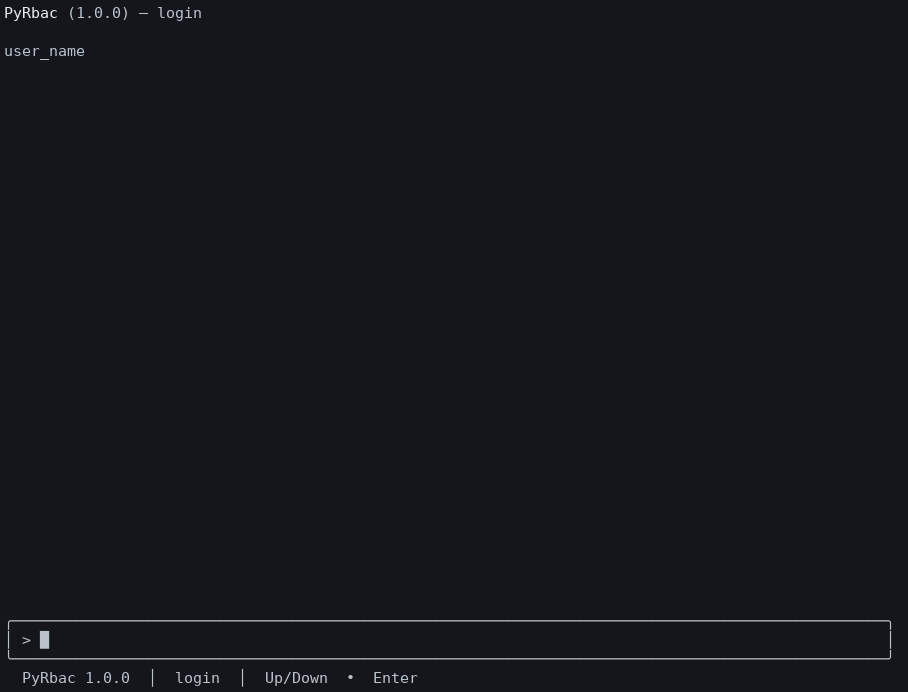
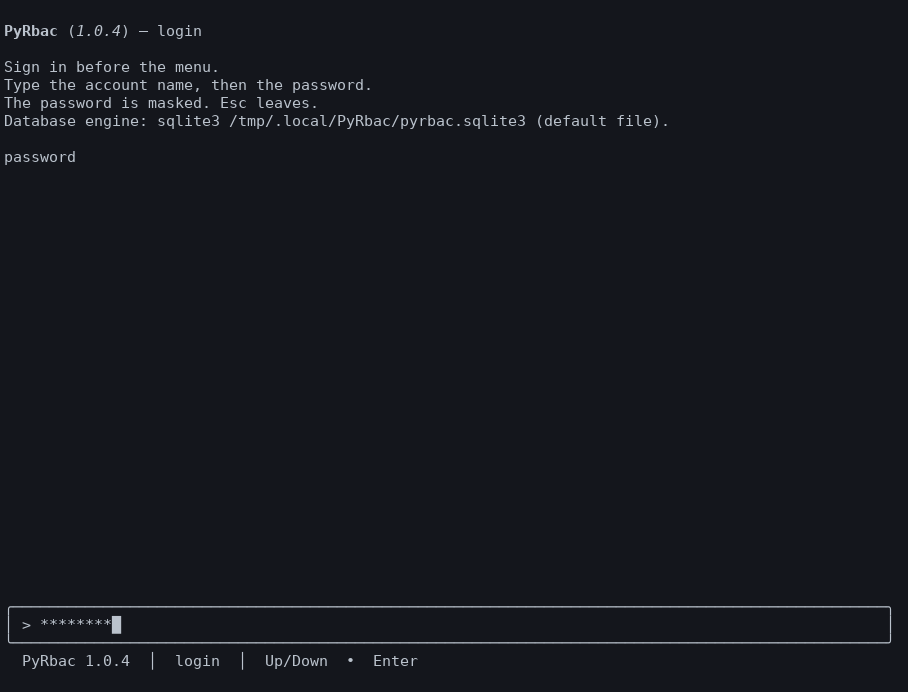
Update the README screenshots for the current menu.
The pictures are the current text menu at 1.0.4. The front board has no session row. The sign-in question keeps its instructions, including the sqlite3 file, above each field. Row 9 Exit is included, and the old session picture is removed.

diff --git a/tests/test_local_login.py b/tests/test_local_login.py
@@ -193,6 +193,43 @@ class TestSavedSignIn(unittest.TestCase):
         finally:
             desk.web().stop()
 
+    def test_login_question_keeps_the_preface(self):
+        class Box:
+            error = ""
+            mask = False
+            buffer = ""
+            cursor = 0
+
+            def _backspace(self):
+                return None
+
+            def _slide(self, _key):
+                return None
+
+            def _insert(self, _ch):
+                return None
+
+        seen = []
+
+        def read_key(_screen, _model, lines, title="menu"):
+            seen.append((title, list(lines)))
+            return "admin" if len(seen) == 1 else "secret"
+
+        tui = Tui()
+        tui.read_key = read_key
+        preface = [
+            "Sign in before the menu.",
+            "Database engine: sqlite3 /tmp/PyRbac/pyrbac.sqlite3 (default file).",
+        ]
+        picked = tui._ask_fields(None, Box(), "login", Tui.ASKS["login"], preface=preface)
+        self.assertEqual(picked, {"user_name": "admin", "password": "secret"})
+        self.assertEqual(seen[0][0], "login")
+        self.assertIn("Sign in before the menu.", seen[0][1])
+        self.assertIn("pyrbac.sqlite3", seen[0][1][1])
+        self.assertEqual(seen[0][1][-1], "user_name")
+        self.assertEqual(seen[1][1][-1], "password")
+        self.assertIn("(default file).", seen[1][1][1])
+
 
 class TestExitQuestion(unittest.TestCase):
     """Row 9 asks. End of input does not."""

diff --git a/src/PyRbac/tui.py b/src/PyRbac/tui.py
@@ -473,7 +473,7 @@ class Tui:
                 return
             signed_in = self.sign_in_or_restore(
                 lambda lines: self._ask_fields(
-                    screen, session.model, "login", self.ASKS["login"],
+                    screen, session.model, "login", self.ASKS["login"], preface=lines,
                 ),
                 state=state,
                 database_name=database_name,
@@ -689,13 +689,21 @@ class Tui:
         "online-logout": (("token", "session token", False),),
     }
 
-    def _ask_fields(self, screen, model, title, fields):
-        """One field at a time. Esc returns None. A password field is masked."""
+    def _ask_fields(self, screen, model, title, fields, preface=None):
+        """One field at a time. Esc returns None. A password field is masked.
+
+        preface stays above the field label. The sign-in question uses it for
+        the account instructions and the database file.
+        """
         values = {}
         for name, label, secret in fields:
             model.mask = bool(secret)
+            body = list(preface or [])
+            if body:
+                body.append("")
+            body.append(label)
             try:
-                text = self.read_key(screen, model, [label], title=title)
+                text = self.read_key(screen, model, body, title=title)
             finally:
                 model.mask = False
             if text is None:

diff --git a/tests/test_docs.py b/tests/test_docs.py
@@ -31,6 +31,7 @@ HEADINGS = (
 SHOTS = (
     "main-menu-en.png",
     "login-prompt.png",
+    "exit-prompt.png",
     "access-menu.png",
     "setup-menu.png",
     "audit-menu.png",

diff --git a/README.md b/README.md
@@ -116,11 +116,15 @@ These are captures of the running text menu.
 
 ![Front board](https://raw.githubusercontent.com/cloudgen/PyRbac/main/screenshots/main-menu-en.png)
 
-*Front board after sign-in. Row 2 is access. Row 4 is language. Row 9 is Exit. This capture still shows the earlier session row.*
+*Front board after sign-in. Row 2 is access. Row 4 is language. Row 9 is Exit. There is no session row.*
 
 ![Login prompt](https://raw.githubusercontent.com/cloudgen/PyRbac/main/screenshots/login-prompt.png)
 
-*The sign-in question that opens before the menu. The password field is masked.*
+*The sign-in question before the menu. It names the sqlite3 file. The password is masked.*
+
+![Exit](https://raw.githubusercontent.com/cloudgen/PyRbac/main/screenshots/exit-prompt.png)
+
+*Row 9 Exit. Enter or y logs out and removes the saved sign-in. n keeps it. Esc stays.*
 
 ![Access](https://raw.githubusercontent.com/cloudgen/PyRbac/main/screenshots/access-menu.png)
 
@@ -128,7 +132,7 @@ These are captures of the running text menu.
 
 ![Setup](https://raw.githubusercontent.com/cloudgen/PyRbac/main/screenshots/setup-menu.png)
 
-*Parameters, dictionaries, and notices.*
+*Parameters, dictionaries, notices, and the database engine.*
 
 ![Audit](https://raw.githubusercontent.com/cloudgen/PyRbac/main/screenshots/audit-menu.png)
 

diff --git a/reviews/2026-10-11-pyrbac-review.md b/reviews/2026-10-11-pyrbac-review.md
@@ -2,7 +2,7 @@
 
 **Product:** PyRbac 1.0.4
 **Scope:** Requirements, RBAC behavior, database isolation, web pages, text menu, local sign-in, and ChronicleLogger.
-**Result:** Pass with the limits below. `tests/run.sh` reported 46 tests OK.
+**Result:** Pass with the limits below. `tests/run.sh` reported 47 tests OK.
 
 ## What was checked
 
@@ -31,10 +31,9 @@
 ## Limits
 
 - Captcha, export, import, and batch logout are not in 1.0.4.
-- The front-board screenshots still show the earlier session row. The live menu does not.
+- The screenshots are frames of the current text menu at version 1.0.4. The front board has no session row. They are a fixed-size capture of that menu, not a browser capture of the HTML pages.
 - `user-add` and `role-grant` use sequential statements. A crash between them can leave a partial write. The seed itself is one transaction.
 - The web grant form can read menu ids for an editor who has role edit without menu list. The seeded administrator has both.
-- Screenshots are captures of the running text menu at a fixed size. They are not a browser capture of the HTML pages.
 
 ## Storage choices
 

diff --git a/CHANGELOG.md b/CHANGELOG.md
@@ -12,6 +12,8 @@ Version SSOT: `pyproject.toml` + `src/PyRbac/__init__.__version__`.
 ### Changed
 
 - Row 9 Exit asks before it leaves. Enter or y logs out and removes the saved sign-in. n leaves and keeps it. Esc stays on the menu. End of input still leaves without the question.
+- The sign-in question keeps its instructions, including the sqlite3 file, above the account name and the password.
+- The README pictures show the current menu: version 1.0.4, no session row, the sign-in question, and the Exit question.
 
 ## [1.0.3] - 2026-10-11
 

diff --git a/reviews/2026-10-11-checklist.md b/reviews/2026-10-11-checklist.md
@@ -32,7 +32,7 @@ Use this list before a push to `cloudgen/PyRbac`.
 
 ## Document
 
-- [x] README screenshots use absolute raw GitHub URLs
+- [x] README screenshots are the current menu (1.0.4, no session row) and use absolute raw GitHub URLs
 - [x] Seeded passwords are documented with a change-them warning
 - [x] No vault path, private key, or live database password in versioned docs
 
